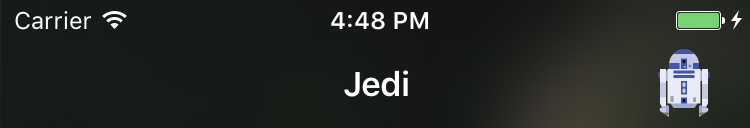
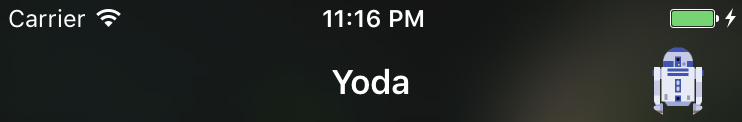
Demo

diff --git a/Demo/ViewController.swift b/Demo/ViewController.swift
@@ -11,7 +11,10 @@ import UIKit
 class ViewController: UIViewController {
 
     // MARK: - Properties
+    @IBOutlet fileprivate weak var toolBar: UIToolbar!
+    
     fileprivate var r2Button = UIBarButtonItem()
+    fileprivate var logoButton = UIBarButtonItem()
     
     // MARK: - View LifeCycle
     override func viewDidLoad() {
@@ -34,8 +37,14 @@ class ViewController: UIViewController {
         r2Button = UIBarButtonItem.custom(
             with: #imageLiteral(resourceName: "R2-D2"),
             target: self,
-            action: #selector(showDetails(sender:)),
-            controlEvents: .touchUpInside
+            action: #selector(showDetails(sender:))
+        )
+        
+        logoButton = UIBarButtonItem.custom(
+            with: #imageLiteral(resourceName: "StarWars"),
+            frame: CGRect(x: 0, y: 0, width: 54, height: 54),
+            target: self,
+            action: #selector(showDetails(sender:))
         )
         
         if let size = buttonSize {
@@ -43,18 +52,22 @@ class ViewController: UIViewController {
                 with: #imageLiteral(resourceName: "R2-D2"),
                 frame: CGRect(x: 0, y: 0, width: size.width, height: size.height),
                 target: self,
-                action: #selector(showDetails(sender:)),
-                controlEvents: .touchUpInside
+                action: #selector(showDetails(sender:))
             )
         }
         
-        navigationItem.title = "Jedi"
+        navigationItem.title = "Yoda"
         navigationItem.rightBarButtonItem = r2Button
+        
+        let flexibleSpace = UIBarButtonItem(barButtonSystemItem: .flexibleSpace, target: nil, action: nil)
+        
+        toolBar.setItems([flexibleSpace, logoButton, flexibleSpace], animated: true)
+        toolBar.barStyle = .black
     }
     
     @objc fileprivate func showDetails(sender: UIBarButtonItem) {
         
-        let alert = UIAlertController(title: "R2 D2", message: "May the force be with you", preferredStyle: .alert)
+        let alert = UIAlertController(title: "Jedi", message: "May the force be with you", preferredStyle: .alert)
         let action = UIAlertAction(title: "Ok", style: .default, handler: nil)
         
         alert.addAction(action)

diff --git a/Demo/Extensions.swift b/Demo/Extensions.swift
@@ -11,7 +11,7 @@ import Foundation
 
 extension UIBarButtonItem {
     
-    static func custom(with image: UIImage, frame: CGRect = CGRect(x: 0, y: 0, width: 36, height: 36), isRounded: Bool = true, borderWidth: CGFloat = 0, borderColor: UIColor = .white, target: AnyObject?, action: Selector, controlEvents: UIControlEvents = .touchUpInside, showsTouchWhenHighlighted: Bool = true) -> UIBarButtonItem {
+    static func custom(with image: UIImage?, frame: CGRect = CGRect(x: 0, y: 0, width: 36, height: 36), isRounded: Bool = true, borderWidth: CGFloat = 0, borderColor: UIColor = .white, target: AnyObject?, action: Selector, controlEvents: UIControlEvents = .touchUpInside, showsTouchWhenHighlighted: Bool = true) -> UIBarButtonItem {
         
         let button = UIButton(frame: frame)
         button.setBackgroundImage(image, for: .normal)

diff --git a/Demo/CustomView.swift b/Demo/CustomView.swift
@@ -19,6 +19,6 @@ class CustomView: UIView {
         imageView.clipsToBounds = true
         imageView.autoresizingMask = [.flexibleWidth, .flexibleHeight]
         
-        addSubview(imageView)
+        insertSubview(imageView, at: 0)
     }
 }

diff --git a/README.md b/README.md
@@ -4,6 +4,7 @@ An example of custom UIBarButtonItem
 * Xcode 8
 
  ![image](https://github.com/limadeveloper/iOS-CustomButton/blob/master/Docs/Images/01.png)
+ ![image](https://github.com/limadeveloper/iOS-CustomButton/blob/master/Docs/Images/02.png)
  
 ## Extension of UIBarButtonItem
  
@@ -32,33 +33,50 @@ An example of custom UIBarButtonItem
 }
  ```
  
- ## How to use
- 
+ ## How to use with UINavigationItem
  ```
- var r2Button = UIBarButtonItem()
+ fileprivate var r2Button = UIBarButtonItem()
 
  override func viewDidLoad() {
      super.viewDidLoad()
 
      r2Button = UIBarButtonItem.custom(
-        with: #imageLiteral(resourceName: "R2-D2"),
+        with: UIImage(named: "R2-D2"),
         target: self,
-        action: #selector(showDetails(sender:)),
-        controlEvents: .touchUpInside
+        action: #selector(showDetails(sender:))
     )
 
     navigationItem.rightBarButtonItem = r2Button
  }
  ```
  
+## How to use with UIToolbar
+```
+@IBOutlet fileprivate weak var toolBar: UIToolbar!
+
+ override func viewDidLoad() {
+     super.viewDidLoad()
+
+     logoButton = UIBarButtonItem.custom(
+        with: UIImage(named: "StarWars"),
+        frame: CGRect(x: 0, y: 0, width: 54, height: 54),
+        target: self,
+        action: #selector(showDetails(sender:))
+    )
+
+    let flexibleSpace = UIBarButtonItem(barButtonSystemItem: .flexibleSpace, target: nil, action: nil)
+    toolBar.setItems([flexibleSpace, logoButton, flexibleSpace], animated: true)
+ }
+```
+
 ## Demo
  
  <p align="center">
-<img src="https://github.com/limadeveloper/iOS-CustomButton/blob/master/Docs/Images/02.png" width="375">
+<img src="https://github.com/limadeveloper/iOS-CustomButton/blob/master/Docs/Images/03.png" width="375">
 </p>
 <br>
 
 <p align="center">
-<img src="https://github.com/limadeveloper/iOS-CustomButton/blob/master/Docs/Images/03.png" width="665">
+<img src="https://github.com/limadeveloper/iOS-CustomButton/blob/master/Docs/Images/04.png" width="665">
 </p>
 <br>
